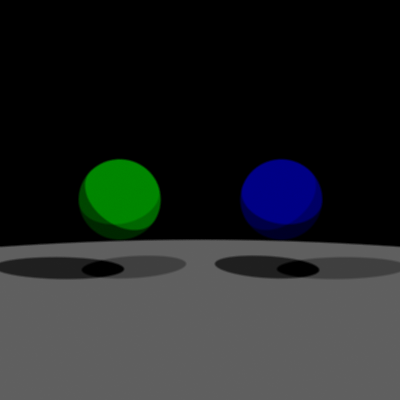
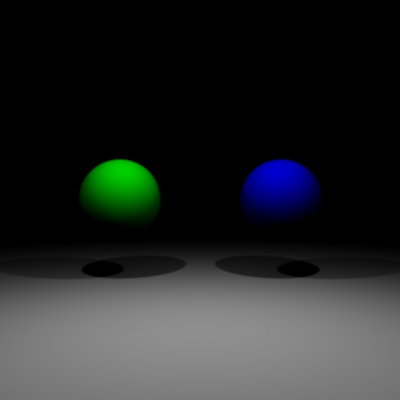
Fix issues with color adding and bounce rays color

diff --git a/src/raytracer.c b/src/raytracer.c
@@ -1,5 +1,6 @@
 #include <math.h>
 #include "utils.h"
+#include "image.h"
 #include "raytracer.h"
 
 static Color calculate_lightning(Scene* scene, HitInfo hit) {
@@ -20,44 +21,53 @@ static Color calculate_lightning(Scene* scene, HitInfo hit) {
     return result;
 }
 
-double depth = 0;
-Color cast_ray(const Ray ray, Scene* scene) {
-    Color final_color = COLOR_BLACK;
-    HitInfo hit = {0};
-    hit.distance = INFINITY;
-    for(size_t i = 0; i < scene->objects_count; i++) {
-        Object* o = (Object*) scene->objects[i];
-        if(o->hit(o, ray, &hit) == 1) {
-            
-            // Debug normals
-            // return (Color) {
-            //     (hit.normal.x + 1.0) * 0.5 * 255.0, 
-            //     (hit.normal.y + 1.0) * 0.5 * 255.0, 
-            //     (hit.normal.z + 1.0) * 0.5 * 255.0, 
-            //     255
-            // };
+Color cast_ray(const Ray ray, Scene *scene, int depth) {
+    HitInfo closest_hit = {0};
+    closest_hit.distance = INFINITY;
 
-            Color light_color = calculate_lightning(scene, hit);
-            Color surface_color = multiply_color(light_color, o->material.base_color);
+    Object *closest_object = NULL;
 
-            Vec3 random = add(hit.normal, random_unit());
-            if (dot(random, hit.normal) > 0.0) {
-                random = smul(random, -1);
+    for (size_t i = 0; i < scene->objects_count; i++) {
+        Object *obj = (Object *)scene->objects[i];
+        HitInfo temp_hit = {0};
+        temp_hit.distance = INFINITY;
+
+        if (obj->hit(obj, ray, &temp_hit) == 1) {
+            if (temp_hit.distance > 0.0 && temp_hit.distance < closest_hit.distance) {
+                closest_hit = temp_hit;
+                closest_object = obj;
             }
-            
-            if (depth++ < MAX_DEPTH) {
-                final_color = cast_ray(
-                    (Ray) {.direction = random, .starting_position = hit.intersection},
-                    scene
-                );
-            }
-            depth--;
-
-            final_color = add_color(final_color, surface_color);
         }
     }
 
-    return final_color;
+    if (closest_object == NULL) {
+        return COLOR_BLACK;
+    }
+
+    Color light_color = calculate_lightning(scene, closest_hit);
+    Color surface_color = multiply_color(light_color, closest_object->material.base_color);
+
+    if (depth >= MAX_DEPTH) {
+        return surface_color;
+    }
+
+    Vec3 random = add(closest_hit.normal, random_unit());
+    if (dot(random, closest_hit.normal) < 0.0) {
+        random = smul(random, -1.0);
+    }
+
+    Ray bounce_ray = {
+        .starting_position = add(
+            closest_hit.intersection,
+            smul(closest_hit.normal, 0.001)
+        ),
+        .direction = random
+    };
+
+    Color bounce_color = cast_ray(bounce_ray, scene, depth + 1);
+    bounce_color = multiply_color(bounce_color, closest_object->material.base_color);
+
+    return add_color(surface_color, bounce_color);
 }
 
 Ray create_ray(Camera camera, double v_x, double v_y, double square) {

diff --git a/src/main.c b/src/main.c
@@ -19,8 +19,8 @@ int main() {
     Sphere s2 = SPHERE(((Material) {COLOR_BLUE}), ((Vec3) {-1, 0, -5}), 0.5);
     Sphere s3 = SPHERE(((Material) {COLOR_WHITE}), ((Vec3) {0, -100, -5}), 99);
 
-    PointLight l1 = POINT_LIGHT(((Vec3) {1, 2, -3}), COLOR_WHITE, 1000);
-    PointLight l2 = POINT_LIGHT(((Vec3) {-1, 2, -3}), COLOR_WHITE, 1000);
+    PointLight l1 = POINT_LIGHT(((Vec3) {1, 2, -3}), COLOR_WHITE, 3);
+    PointLight l2 = POINT_LIGHT(((Vec3) {-1, 2, -3}), COLOR_WHITE, 3);
 
     void* objects[OBJECT_COUNT] = {
         &s1,
@@ -54,7 +54,7 @@ int main() {
             float r = 0, g = 0, b = 0;
             for(int k = 0; k < RAYS_PER_PIXEL; k++) {
                 Ray ray = create_ray(camera, (double) i / WIDTH, (double) j / HEIGHT, RAY_BLUR);
-                Color c = cast_ray(ray, &s);
+                Color c = cast_ray(ray, &s, MAX_DEPTH);
                 r += (float) c.red / RAYS_PER_PIXEL;
                 g += (float) c.green / RAYS_PER_PIXEL;
                 b += (float) c.blue / RAYS_PER_PIXEL;

diff --git a/src/image.c b/src/image.c
@@ -1,5 +1,7 @@
 #include "image.h"
 
+#define MIN(a, b) ((a) < (b) ? (a) : (b))
+
 int set_pixel(Image image, uint64_t x, uint64_t y, Color color) {
     if(x < 0 || y < 0 || x > image.width || y > image.height) {
         return OUT_OF_BOUNDS;
@@ -41,12 +43,12 @@ void destroy_image(Image image) {
 }
 
 Color add_color(Color a, Color b) {
-    Color result = COLOR_BLACK;
+    Color result;
 
-    result.red = (a.red + b.red) / 2;
-    result.green = (a.green + b.green) / 2;
-    result.blue = (a.blue + b.blue) / 2;
-    result.alpha = (a.alpha + b.alpha) / 2;
+    result.red = MIN(255, (int)a.red + (int)b.red);
+    result.green = MIN(255, (int)a.green + (int)b.green);
+    result.blue = MIN(255, (int)a.blue + (int)b.blue);
+    result.alpha = a.alpha;
 
     return result;
 }

diff --git a/src/lights.c b/src/lights.c
@@ -36,7 +36,7 @@ Color calculate_point_light_contribution(void* this, Scene* scene, HitInfo hit) 
         }
     }
 
-    double attenuation = 1.0;// / (distance * distance);
+    double attenuation = 1.0 / (distance * distance);
     double factor = diffuse * attenuation * light->intensity;
 
     Color result;

diff --git a/includes/raytracer.h b/includes/raytracer.h
@@ -18,6 +18,6 @@ typedef struct Camera {
 
 Ray create_ray(Camera camera, double v_x, double v_y, double square);
 
-Color cast_ray(const Ray ray, Scene* scene);
+Color cast_ray(const Ray ray, Scene* scene, int depth);
 
 #endif // RAYTRACER_H_

diff --git a/includes/image.h b/includes/image.h
@@ -39,5 +39,6 @@ void destroy_image(Image image);
 
 Color add_color(Color a, Color b);
 Color multiply_color(Color a, Color b);
+Color scale_color(Color a, double factor);
 
 #endif // IMAGE_H_
